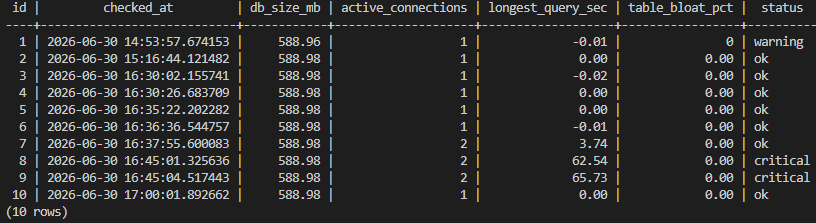
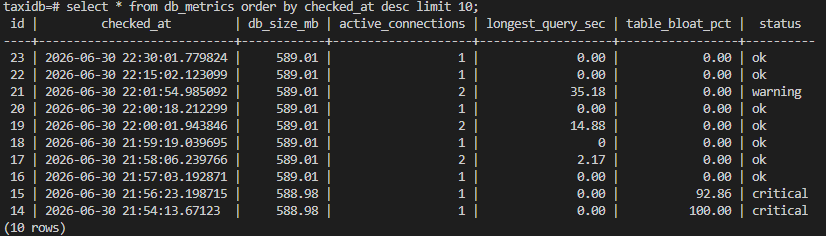
Updated README and fixed longest_query bug
Some queries appear as having negative values due to rounding errors.

Changed region(s): [[0.0, 0.1614, 1.0, 0.9955], [0.0, 0.0, 1.0, 0.1345]]

diff --git a/scripts/monitor.py b/scripts/monitor.py
@@ -49,7 +49,7 @@ def collect_metrics(conn):
 
         # coalesce returns 0 when no queries are currently active
         cur.execute(
-            "SELECT coalesce(round(extract(epoch from max(now() - query_start))::numeric, 2), 0)"
+            "SELECT coalesce(greatest(round(extract(epoch from max(now() - query_start))::numeric, 2), 0), 0)"
             " FROM pg_stat_activity WHERE state = 'active' AND query_start IS NOT NULL"
         )
         metrics["longest_query_sec"] = cur.fetchone()[0]

diff --git a/README.md b/README.md
@@ -140,6 +140,9 @@ python scripts/monitor.py --dry-run
 | `longest_query_sec` | A query running longer than expected is usually blocking others or missing an index |
 | `table_bloat_pct` | Dead rows accumulate until VACUUM reclaims them; high bloat degrades query performance |
 
+![db_metrics table](images/metrics_table.png)
+*Monitoring results stored in the db_metrics table.*
+
 ### Persistent history
 
 Every run inserts a row into `db_metrics` regardless of status, giving a queryable record of database health over time. This makes it possible to spot gradual trends that a single snapshot wouldn't reveal.
@@ -147,6 +150,9 @@ Every run inserts a row into `db_metrics` regardless of status, giving a queryab
 ### Alerting
 
 When any metric crosses a threshold, an email is sent via SMTP with the metric values and status level. Thresholds are defined as named constants at the top of [scripts/monitor.py](scripts/monitor.py) and can be tuned to match the environment's normal baseline. `--dry-run` prints the alert body to the terminal instead of sending, making it safe to test without live email credentials.
+
+![critical_warning_alert](images/email_critical_warning.png)
+*Alert for critical result.*
 
 ### Scheduling
 
